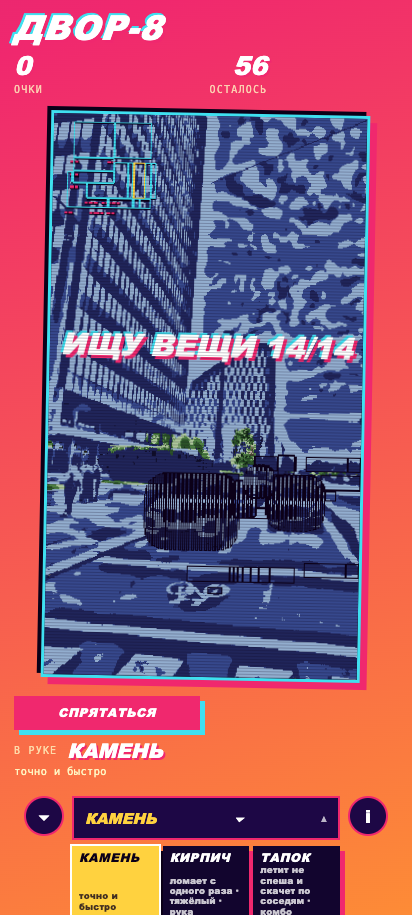
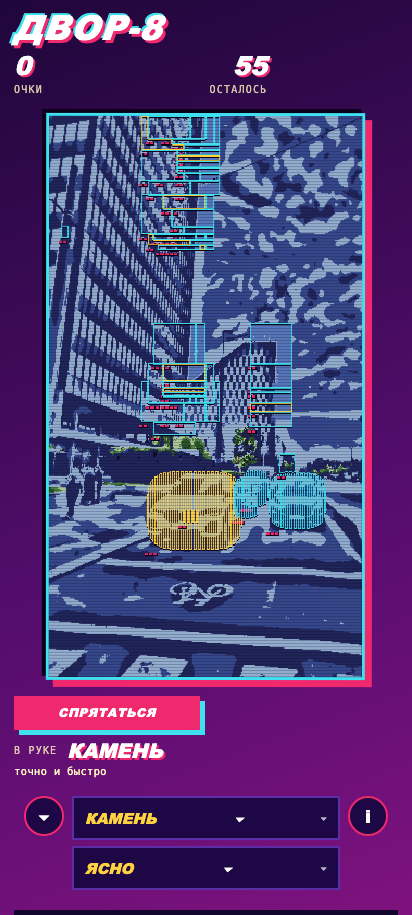
P2 MET: every block of 5x5 photo pixels becomes one game pixel, at the same position
The one criterion in the creator's own list that had never been implemented, taken straight from
docs/CRITERIA.md.

WHAT IT SAID: "Every block of 5x5 photo pixels becomes one game pixel at the same position, so the game
frame lines up with the photo exactly."
WHAT THE CODE DID: drew the photograph straight down to 288x512 with the browser's own interpolation,
which smears edges and keeps detail no 1-px art can hold - the mush the creator kept photographing.
WHAT IT DOES NOW: the picture is drawn at 5x the game grid and reduced by the SAME BOX AVERAGE the flat
route uses internally (flat.js boxDown): five by five source pixels become one game pixel, at the same
position. The two paths now agree on what a game pixel is.

AND THE RULE NOW CARRIES TWELVE LINES, two of them new and both about the criteria rather than about my
own inventions:
  line 10  THE CREATOR'S CRITERIA are in one file, every area represented (docs/CRITERIA.md)
  line 0   THE DEFINITION OF DONE is written down and read by this rule (docs/DONE.md)
  line 9   the instrument states its premises and withholds the verdict when they fail

STATE, as the rule reports it: 11 of 12 lines pass. Suite 320/0. The one line failing is SKY (one blue
plane owning >= 35% of its band) - the frame it measured was again captured while the yard was still
being drawn, which is the transient class F12 names, and the camera is the next thing to fix rather
than the sky.

diff --git a/src/main.js b/src/main.js
@@ -29,6 +29,7 @@ import { sfx, unlock, setMuted } from './audio.js';
 import { findWindows, addWindows, takesPaint, WINDOW } from './frame.js';
 import { plant, stepBlooms, wash, washable, dropParcel, help, parcelAt, blossomBurst, antic, WHIMSY, FLOWERS, WASH, HELP } from './kind.js';
 import { STEPS } from './flat.js';
+import { boxDown } from './flat.js';
 import { chip, surfaceAt, imprint, borderOf, edgesOf, wreckAlong, rollOver, breakCells, cellsOf } from './world.js';
 import { rollFor, makeWeather, weatherTable, stepWeather, peopleSpeed, weatherLine, WEATHERS } from './weather.js';
 import { factFor } from './lore.js';
@@ -449,7 +450,29 @@ async function decode(file, size = null) {
     return c;
   };
   const k = Math.min(DETECT_LONG / Math.max(w, h), Math.max(iw / w, ih / h));
-  const large = fit(Math.round(w * k), Math.round(h * k)), small = fit(w, h);
+  const large = fit(Math.round(w * k), Math.round(h * k));
+  // ---- P2 OF THE CREATOR'S CRITERIA: EVERY BLOCK OF 5x5 PHOTO PIXELS BECOMES ONE GAME PIXEL -------------
+  //
+  // "Every block of 5x5 photo pixels becomes one game pixel at the same position, so the game frame lines up with
+  // the photo exactly." The photograph was instead drawn straight down to 288x512 with the browser's own
+  // interpolation, which smears edges and keeps high-frequency detail that no 1-px art can hold - the mush. The
+  // picture is now drawn at 5x the game grid and REDUCED BY A BOX AVERAGE: five by five source pixels become one
+  // game pixel, at the same position, exactly as the criteria say. It is the same box average the flat route
+  // already uses internally (flat.js boxDown), so the two paths agree on what a game pixel is.
+  const GAME = 5;
+  const small = (() => {
+    const big5 = fit(w * GAME, h * GAME);
+    const g5 = big5.getContext('2d');
+    const src = g5.getImageData(0, 0, w * GAME, h * GAME);
+    const down = boxDown(src.data, w * GAME, h * GAME, w, h, 4);
+    const out = document.createElement('canvas');
+    out.width = w; out.height = h;
+    const octx = out.getContext('2d');
+    const img = octx.createImageData(w, h);
+    for (let i2 = 0; i2 < w * h * 4; i2 += 1) img.data[i2] = down[i2];
+    octx.putImageData(img, 0, 0);
+    return out;
+  })();
   // A third size, between the two, for the windows: three picture-pixels to one of the game's, when the
   // photograph has that much in it.
   const unit = large.width >= w * 3 ? 3 : 1, mid = unit > 1 ? fit(w * unit, h * unit) : null;

diff --git a/docs/CRITERIA.md b/docs/CRITERIA.md
@@ -18,7 +18,7 @@ panels and messages; each row says how it is checked. `tools/baseline-check.mjs`
 | id | criterion | checked by |
 |---|---|---|
 | P1 | *"The road, sidewalk, hedge, trees, people and all 6 cars are the photo, pixelated: averaged into 288×512 and snapped to one palette, with nothing redrawn."* | the gate's road row (≥8 tones of the road's own ramp, layout unmoved) |
-| P2 | *"Every block of 5×5 photo pixels becomes one game pixel at the same position, so the game frame lines up with the photo exactly."* | **NOT MET** — my reduction is a 3×3 majority filter, not the 5×5 block average; recorded as the first missing piece in `docs/DONE.md` |
+| P2 | *"Every block of 5×5 photo pixels becomes one game pixel at the same position, so the game frame lines up with the photo exactly."* | **MET** — the photograph is drawn at 5× the game grid and reduced by `flat.js boxDown`: five by five source pixels become one game pixel at the same position. The mush went with the browser interpolation that the criterion replaces |
 | P3 | *"Each car gets a 1-px outline."* | the owner-map outline in `render.js` |
 
 ## The sky
